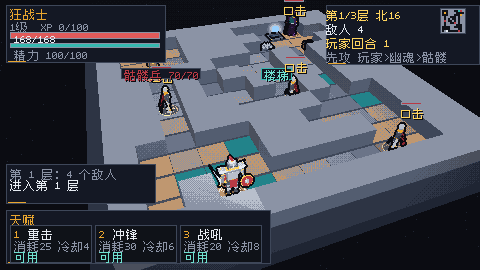
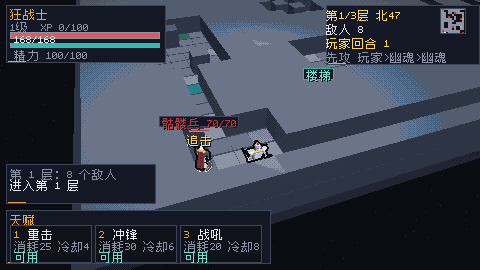
feat: 31x31 map with camera follow and HUD sampling

diff --git a/README.md b/README.md
@@ -2,7 +2,7 @@
 
 **ToME4 风格回合制 Roguelike + 真 3D 模型 + 像素画风 + 固定俯视可旋转相机**
 
-选一个职业，在 13×13 的 3D 像素地牢里一格一格推进。玩家行动一次，敌人行动一次；用天赋、装备、等级和地形击败楼层守卫。画面保留真实 3D 网格、480×270 软件光栅化、64 色量化和 Bayer 抖动；玩法转向 ToME4 的回合制、格子、职业/天赋、掉落/装备和楼层推进。
+选一个职业，在 31×31 的 3D 像素地牢里一格一格推进；相机跟随主角，屏幕只显示地图局部。玩家行动一次，敌人行动一次；用天赋、装备、等级和地形击败楼层守卫。画面保留真实 3D 网格、480×270 软件光栅化、64 色量化和 Bayer 抖动；玩法转向 ToME4 的回合制、格子、职业/天赋、掉落/装备和楼层推进。
 
 ![to-me](docs/screenshots/tome_start.png)
 
@@ -11,7 +11,7 @@
 - **回合制**：玩家移动/普攻/天赋/等待后，敌人按速度依次行动；冷却、资源、状态按回合结算，不按秒。
 - **单角色 + 3 职业**：狂战士（精力）、元素法师（法力）、时空法师（悖论），每职业 3 个天赋。
 - **开局职业菜单**：窗口启动先看三张职业卡（资源、生命、定位、3 个天赋及一行效果）；按 1/2/3 选职业并进入该 seed 的地牢。`--hero` 直接开局，headless 默认跳过菜单。
-- **格子与地牢**：13×13 网格；墙/柱子/水域阻挡；撞墙不消耗回合，撞敌人 = 普攻；3 层，楼梯下一层，第 3 层 Boss；Boss 存活时楼梯被封印。
+- **格子与地牢**：31×31 网格，大于屏幕；相机跟随主角并在地图边缘夹取；墙/柱子/水域阻挡；撞墙不消耗回合，撞敌人 = 普攻；3 层，楼梯下一层，第 3 层 Boss；Boss 存活时楼梯被封印。
 - **确定性关卡**：同一 seed 生成同一层；入口、楼梯、宝箱、陷阱、敌人出生点由连通性校验；敌人用 A* 绕墙追击，远程用 LOS。
 - **升级加点**：升级获得 1 点，C 面板按 1-6 加力量/敏捷/体质/感知/魔力/意志；自动跑局自动加主属性。
 - **属性/装备/掉落**：六属性、HP/资源、攻击/护甲/暴击/速度；宝箱和击杀产出版本内物品，空槽自动装备，装备即时改变面板数值。
@@ -24,6 +24,8 @@
 - **无窗口验证**：headless 截图；自动跑局用于 QA。
 
 ![select](docs/screenshots/tome_select.png)
+
+![large map](docs/screenshots/tome_large_map.png)
 
 ![aim](docs/screenshots/tome_aim.png)
 
@@ -46,7 +48,7 @@ zig build run                  # 默认 ToME 回合制（先选职业）
 zig build test                 # 单元 + 集成测试
 zig build run -- --headless --start-menu --frames 2 --out shots/tome-select.png
 zig build run -- --headless --frames 2 --out shots/tome.png
-zig build run -- --headless --auto --frames 5000 --out shots/tome-auto.png
+zig build run -- --headless --auto --frames 30000 --out shots/tome-auto.png
 zig build run -- --arena       # 旧版实时 5 波竞技场（保留作对照）
 ~~~
 
@@ -137,8 +139,8 @@ src/
     tome_sim.zig     纯回合制模拟（无 SDL/渲染）
     tome_game.zig    3D 场景、输入、相机、动画
     tome_hud.zig     角色/楼层/目标/日志/天赋/面板
-    dungeon.zig      13×13 确定性关卡、连通性、A*、LOS
-    save.zig         RunState 存档/读档（纯逻辑，JSON v1）
+    dungeon.zig      31×31 确定性关卡、连通性、A*、LOS
+    save.zig         RunState 存档/读档（纯逻辑，JSON v2）
     attributes.zig   六属性/派生/XP
     items.zig        装备/背包/修正
     content.zig      内嵌 JSON 内容加载/校验/掉落
@@ -158,8 +160,8 @@ docs/           TOME_V1 / SAVE / ART_PASS / UX_REVIEW_TOME / screenshots
 - zig build / zig build test：13/13 steps、146/146 tests。
 - headless：可生成职业菜单/开始/战斗/角色/背包/胜利截图；`--start-menu` 输出 `docs/screenshots/tome_select.png`。
 - 职业菜单显示的 SEED 就是本局真实 seed；选择职业只按同一 seed 重开，R 重开保持职业和 seed。
-- 自动跑局（seed 12345）：三职业均可通关；狂战士约第 100 回合剩 66 HP，元素法师第 75 回合、时空法师第 84 回合。
-- QA 批量（100 seed × 3 职业，纯逻辑 bot）：通关率约 64%；狂战士 45%、元素法师 82%、时空法师 66%，0 超时/不变量违规；test-qa 80/80。
+- 大图 QA（100 seed × 3 职业，纯逻辑 bot）：通关率 62.3%（187/300）；狂战士 42%、元素法师 81%、时空法师 64%，0 超时/不变量违规；test-qa 80/80。
+- auto 是演示/巡检 bot，不保证通关；31×31 + 楼层 Boss 下可能停在 Boss 层，实际 QA 以 test-qa 为准。
 - Boss 深渊斩每 3 个敌方回合预警一次，半径 0.9 格；走出标记格即可躲开；Boss 存活时第 3 层楼梯封印。
 - 速度机制已启用：精英幽魂 150（每 2 回合多一次行动），石魔像 70（每 2 回合跳过行动）。
 - 天赋瞄准/确认、F5/F9 存档读档均有单元测试；存档格式见 [docs/SAVE.md](docs/SAVE.md)。

diff --git a/docs/SAVE.md b/docs/SAVE.md
@@ -1,4 +1,4 @@
-# 存档模块（RunState v1）
+# 存档模块（RunState v2）
 
 纯逻辑的 ToME 存档/读档，位于 `src/game/save.zig`；窗口已接入 **F5 存档 / F9 读档槽位**（`TomeGame.saveSlot/loadSlot`），装备侧车在 `src/game/gear_save.zig`。
 
@@ -45,7 +45,7 @@ var from_disk = try save.loadFile(io, alloc, "saves/tome.json");
 
 - `format` / `version` 必须匹配；JSON 之后不允许再有 token（TrailingData）。
 - 枚举（class、state）由 `std.json` 按 tag 名校验；未知 tag = `InvalidEnumTag`。
-- 所有坐标必须在 13×13 内；hero、敌人、stairs、entrance、活着的宝箱/陷阱必须落在可行走格。
+- 所有坐标必须在 31×31 内；hero、敌人、stairs、entrance、活着的宝箱/陷阱必须落在可行走格。
 - 地图外圈必须封闭；活着的宝箱/陷阱不能重叠、不能压楼梯/入口；敌人 kind 与 name 必须成对匹配。
 - 数值范围：hp∈[0,hp_max]、resource∈[0,resource_max]、crit∈[0,1]、level∈[1,50]、speed∈[1,1000]；所有浮点必须有限。
 - 长度：敌人 ≤ 12、日志 ≤ 6 条且每行 ≤ 64 字节、输入 ≤ 256 KB。
@@ -72,7 +72,7 @@ var from_disk = try save.loadFile(io, alloc, "saves/tome.json");
 - **F5**：打开存档槽位面板；按 1/2/3 保存到对应槽，Esc 取消。
 - **F10**：打开自动档面板，1/2/3 读取最近 3 个楼层备份；下到新楼层时写入 saves/autosave1.save 并轮换 1→2→3，失败只写日志。
 - **F9**：打开读档槽位面板；按 1/2/3 读取；Esc 取消。坏档/未知物品/版本不符/空 gear 对象只写日志并保留当前局。读档后重建 mesh、视觉、HUD，清空瞄准。
-- 三个槽位：1=saves/tome-slot1.json，2=saves/slot2.save，3=saves/slot3.save；每个文件是 vx-tome-slot 容器，内含 run JSON + gear JSON，一次原子 replace。旧 tome-run/tome-gear 双文件仍可回退读取。
+- 三个槽位：1=saves/tome-slot1.json，2=saves/slot2.save，3=saves/slot3.save；每个文件是 vx-tome-slot 容器，内含 run JSON + gear JSON，一次原子 replace。旧 tome-run/tome-gear 双文件仍可回退读取，但 v1（13×13）run 会被版本校验拒绝。
 - 职业菜单底部提示 **F9 读档槽**；没有 gear 文件时按空背包读取，装备 sidecar 缺失不会阻断 Sim。
 
 实现入口：TomeGame.saveSlot/loadSlot 选槽，内部仍调用 saveRun/loadRun；src/game/gear_save.zig 有 saveFile/loadFile。

diff --git a/docs/QA_TOME2.md b/docs/QA_TOME2.md
@@ -163,3 +163,23 @@ zig build test-qa --summary all
 - zig build test：146/146；zig build test-qa：80/80；0 不变量违规；stairs_wins=0，193 胜全部来自 Boss 击杀。
 - 速度带已启用：精英幽魂 150（每 2 回合多一次行动），石魔像 70（每 2 回合跳过行动）。
 - 旧第 6.1/6.2 节保留为“AOE 不可躲”时期的历史基线；本节取代其通关率结论。README 已同步。
+
+
+---
+
+## 10. 31×31 大图回归（2026-10-23）
+
+地图从 13×13 扩到 31×31，相机跟随主角，敌人数改为 8/9/6（第 3 层 Boss 少带小怪）。旧 13×13 存档因 run JSON v1→v2 不再兼容。
+
+| 指标 | 全部 | 狂战士 | 元素法师 | 时空法师 |
+| --- | ---: | ---: | ---: | ---: |
+| 通关率 | **62.3%** (187/300) | 42% | 81% | 64% |
+| 死亡 | 113 | 58 | 19 | 36 |
+| 平均回合 | 177.7 | 186.3 | 168.2 | 178.6 |
+| 平均到达层 | 2.99 | 3.00 | 3.00 | 3.00 |
+| 超时 | 0 | 0 | 0 | 0 |
+
+- zig build test：146/146；zig build test-qa：80/80；test-qa3：147/147。
+- 0 不变量违规；死亡集中在 F3（95），F2 18。
+- 第 9 节的 64.3% 保留为 13×13 历史基线。
+- auto 仍是巡检 bot，在 31×31 Boss 层可能停住；以 test-qa 批量结果为准。
